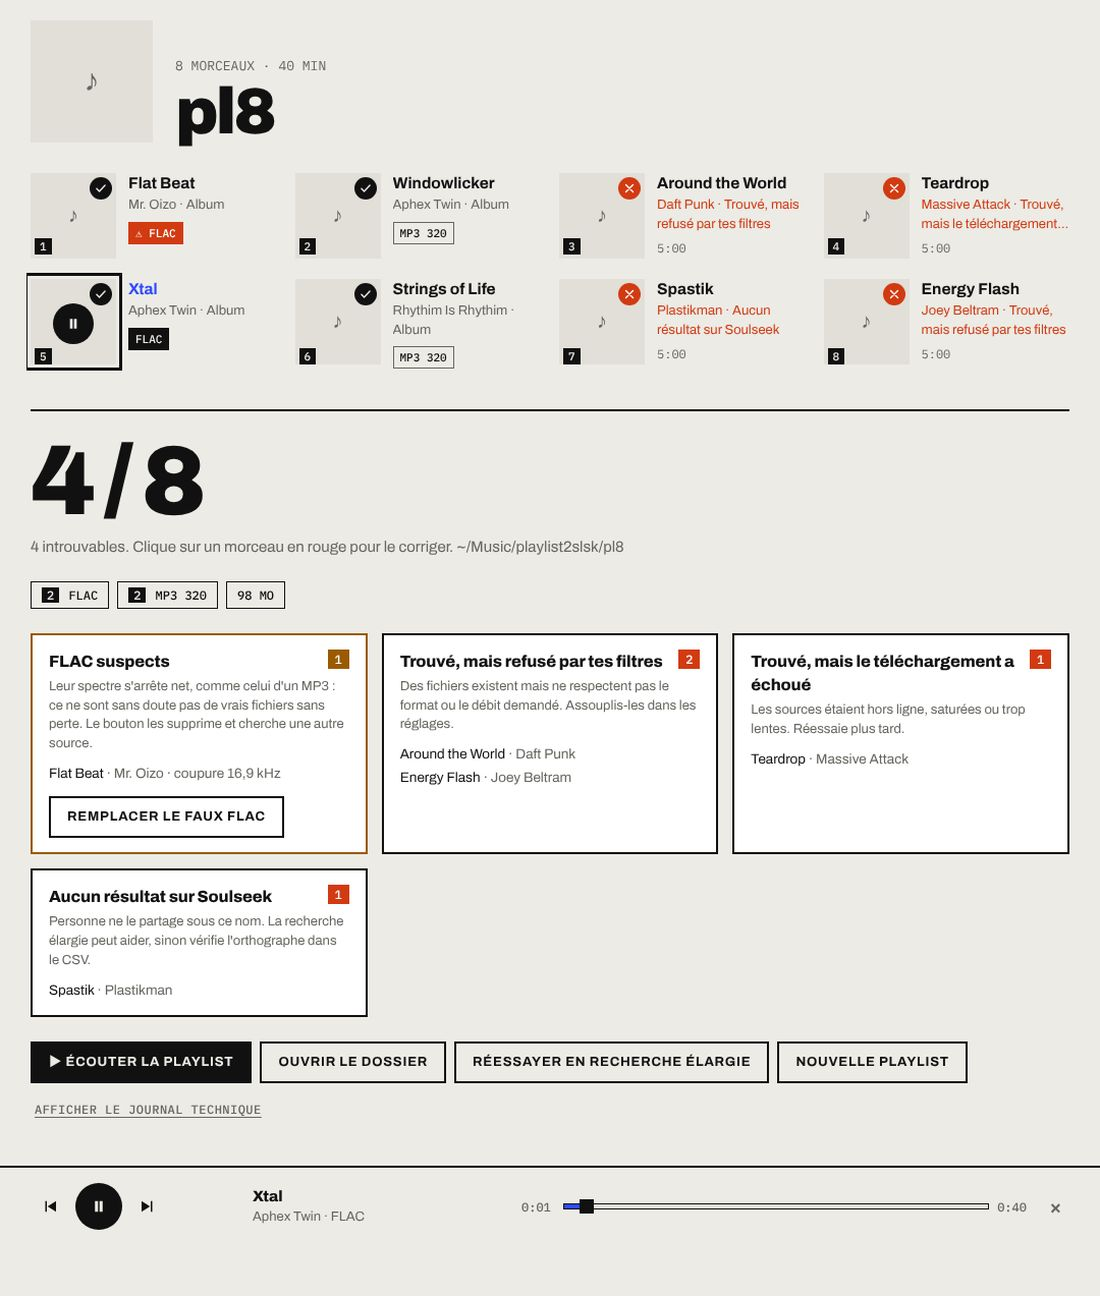
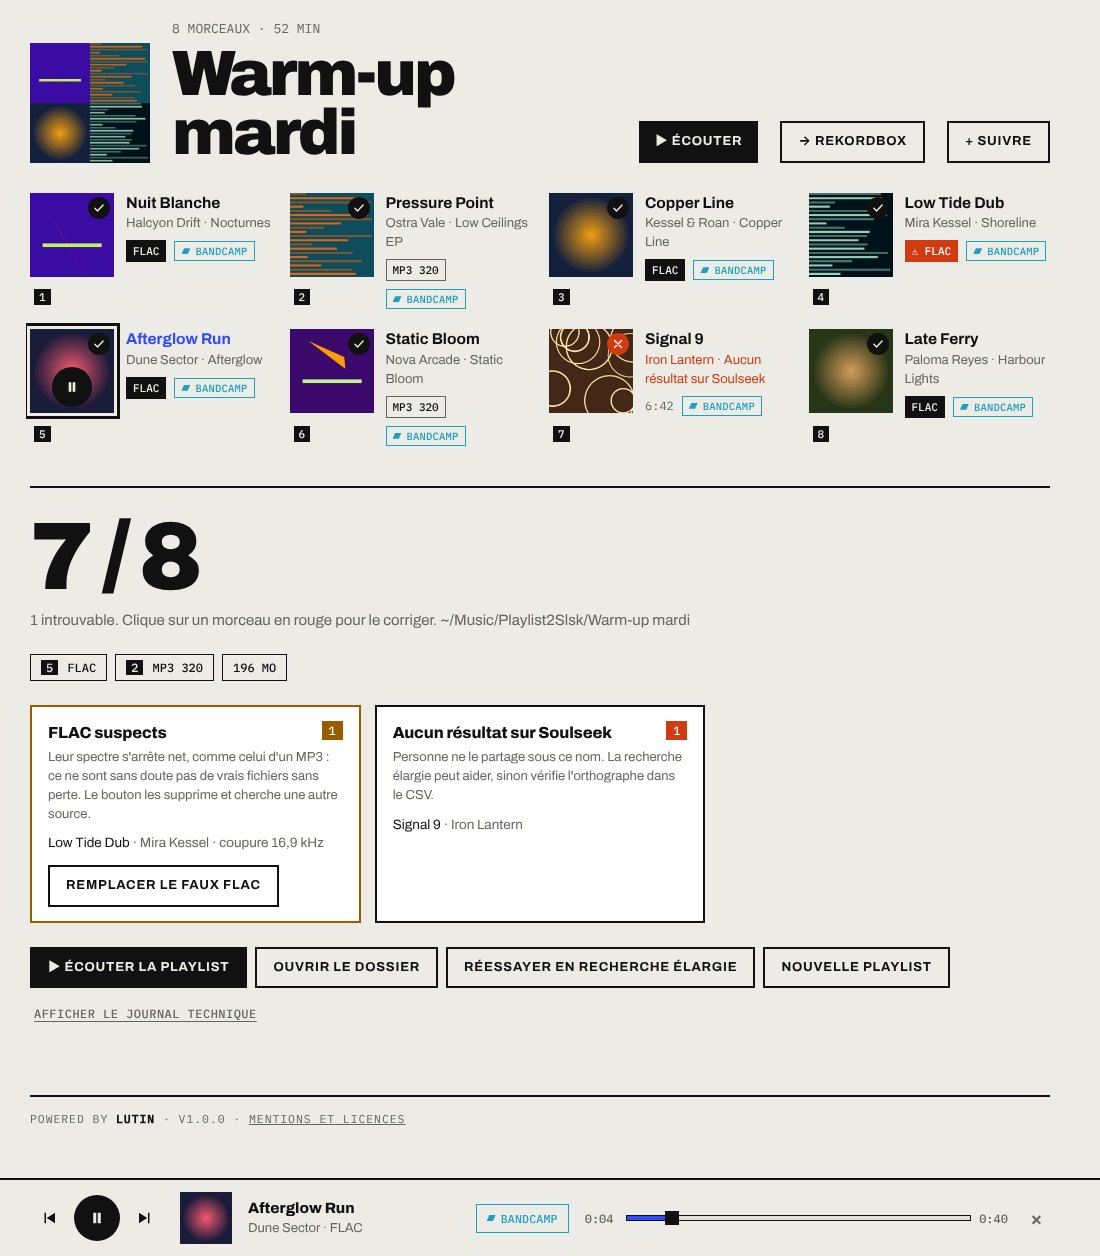
Site : captures avec une playlist fictive, pochettes, sans message d'erreur
Claude-Session: https://claude.ai/code/session_01HqnU3JnCi8BqS9dN4PBNZr

Changed region(s): [[0.0, 0.0, 0.9891, 0.9936], [0.4945, 0.0932, 0.9582, 0.3726]]

diff --git a/docs/index.html b/docs/index.html
@@ -268,16 +268,16 @@ footer.end b { color: var(--text); }
       </div>
       <div class="shots">
         <figure>
-          <img src="img/lecteur.jpg" alt="Bilan d'une playlist de 8 morceaux : 4 trouvés en FLAC ou MP3 320, 4 introuvables expliqués, lecteur en bas de l'écran" loading="lazy" width="1100" height="1298">
+          <img src="img/lecteur.jpg" alt="Bilan d'une playlist de 8 morceaux avec leurs pochettes : 7 trouvés en FLAC ou MP3 320, un faux FLAC signalé, 1 introuvable, lecteur en bas de l'écran" loading="lazy" width="1100" height="1256">
           <figcaption><b>Le bilan.</b> Ce qui est arrivé, en quel format, et pourquoi le reste manque.</figcaption>
         </figure>
         <div class="col">
           <figure>
-            <img src="img/source.jpg" alt="Une wishlist Bandcamp chargée : trois morceaux, choix du format et du dossier de destination" loading="lazy" width="1100" height="764">
+            <img src="img/source.jpg" alt="Une wishlist Bandcamp chargée : trois morceaux, choix du format et du dossier de destination" loading="lazy" width="1100" height="690">
             <figcaption><b>Avant de lancer.</b> La liste, le format, le dossier.</figcaption>
           </figure>
           <figure>
-            <img src="img/mosaique.jpg" alt="Onglet Mes playlists : pochettes des playlists déjà scannées, dont une suivie avec trois nouveaux morceaux" loading="lazy" width="1100" height="560">
+            <img src="img/mosaique.jpg" alt="Onglet Mes playlists : pochettes des playlists déjà scannées, dont une suivie avec trois nouveaux morceaux" loading="lazy" width="1100" height="470">
             <figcaption><b>Mes playlists.</b> Celles que tu suis affichent les nouveaux ajouts.</figcaption>
           </figure>
         </div>
